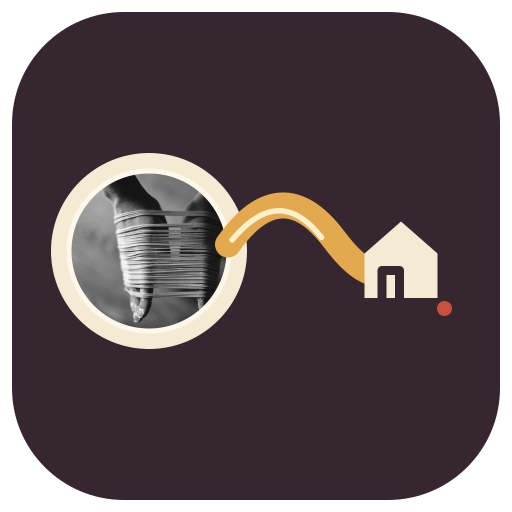
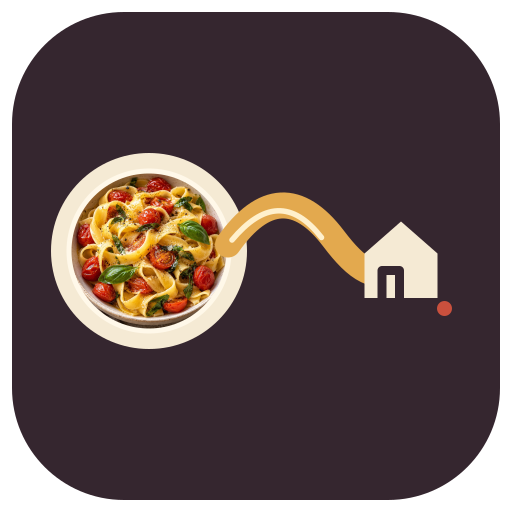
Replace monochrome brand photo with pasta and tomatoes

Changed region(s): [[0.125, 0.3125, 0.4375, 0.6562]]

diff --git a/brand/CREDITS.md b/brand/CREDITS.md
@@ -1,5 +1,3 @@
 # Brand asset credits
 
-- Icon and repository preview photograph: Davide Ragusa, [Person making noodles](https://unsplash.com/photos/person-making-noodles-FwiLgvi-2Do), Unsplash License.
-
-Attribution is not required by the Unsplash License; it is included here to credit the photographer. The icon and preview are original SVG compositions using a crop of the local photograph.
+The app icon and repository preview use an original food photograph generated for Mealie Atelier, depicting handmade pasta with tomatoes and basil. The SVG artwork references the local `pasta-with-tomatoes.jpg` asset.
